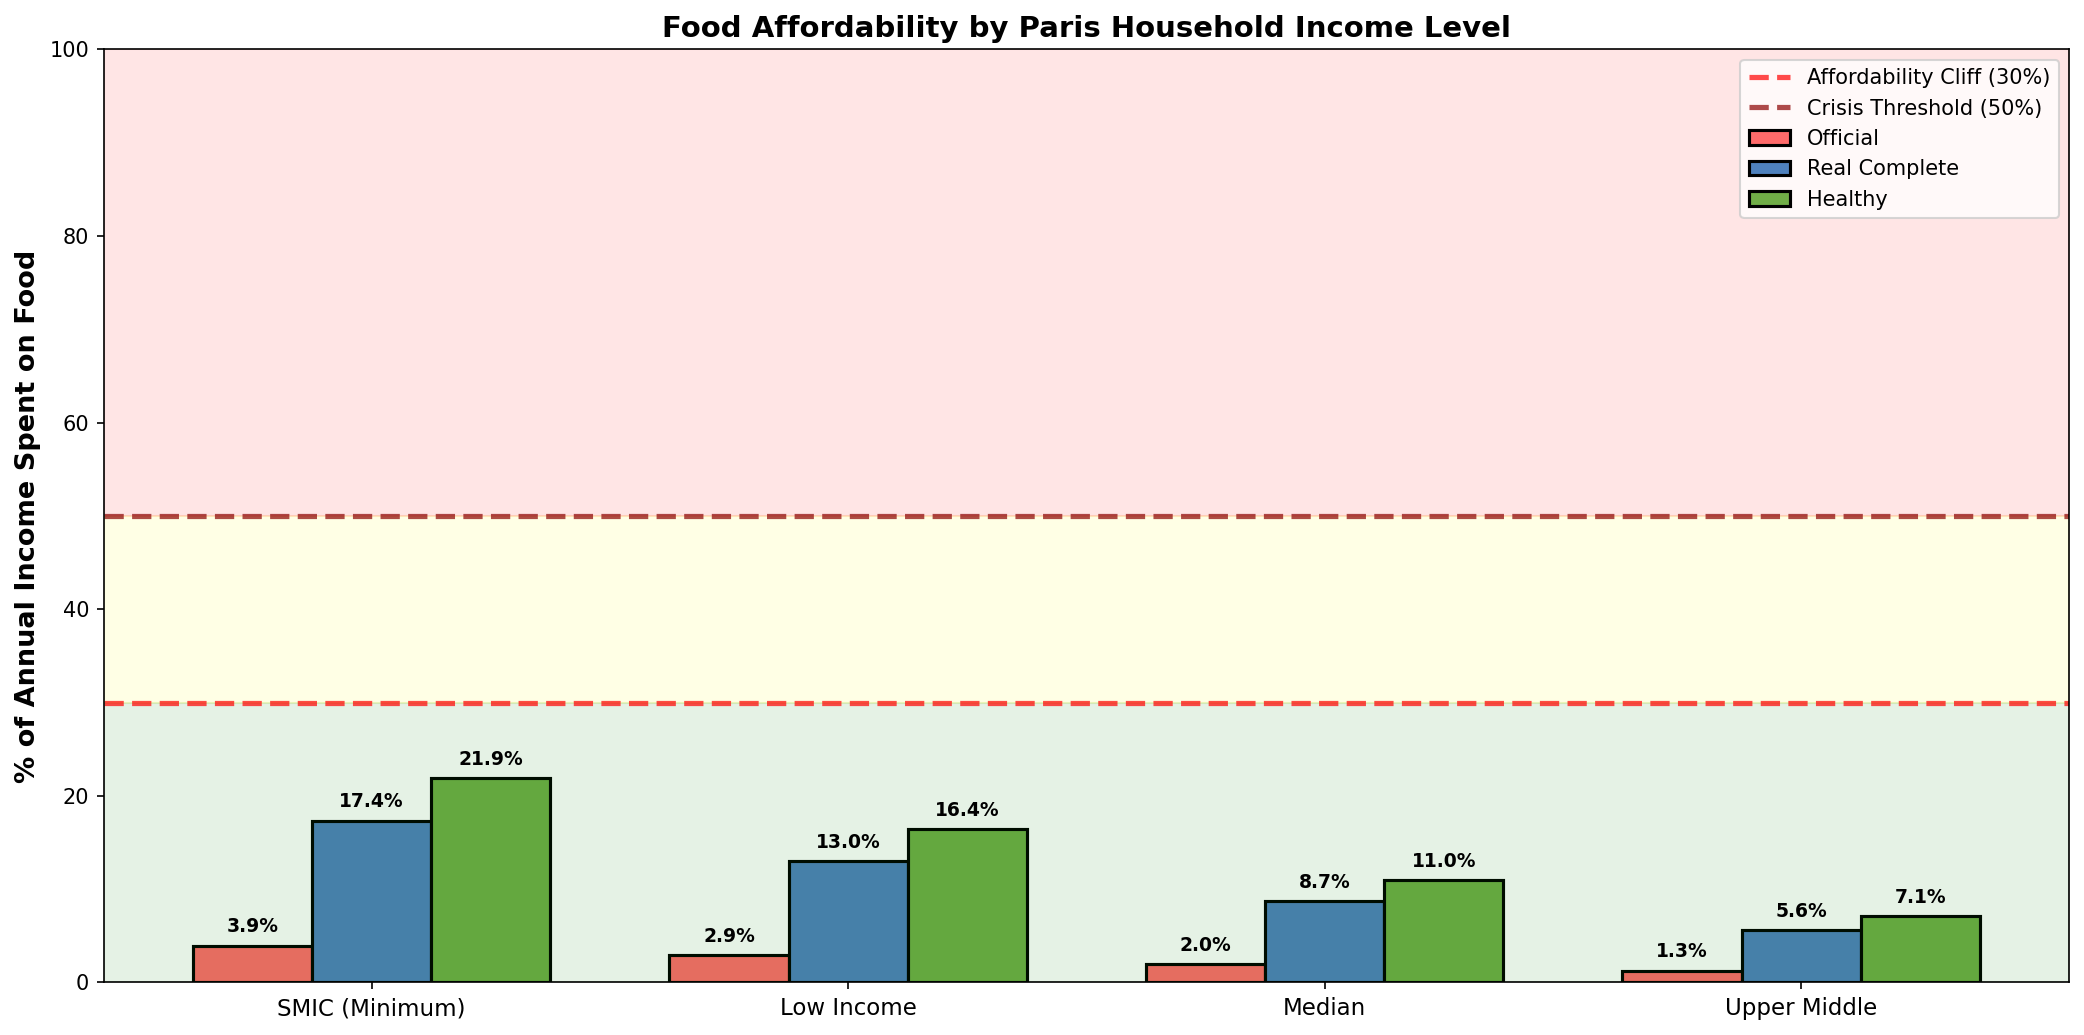
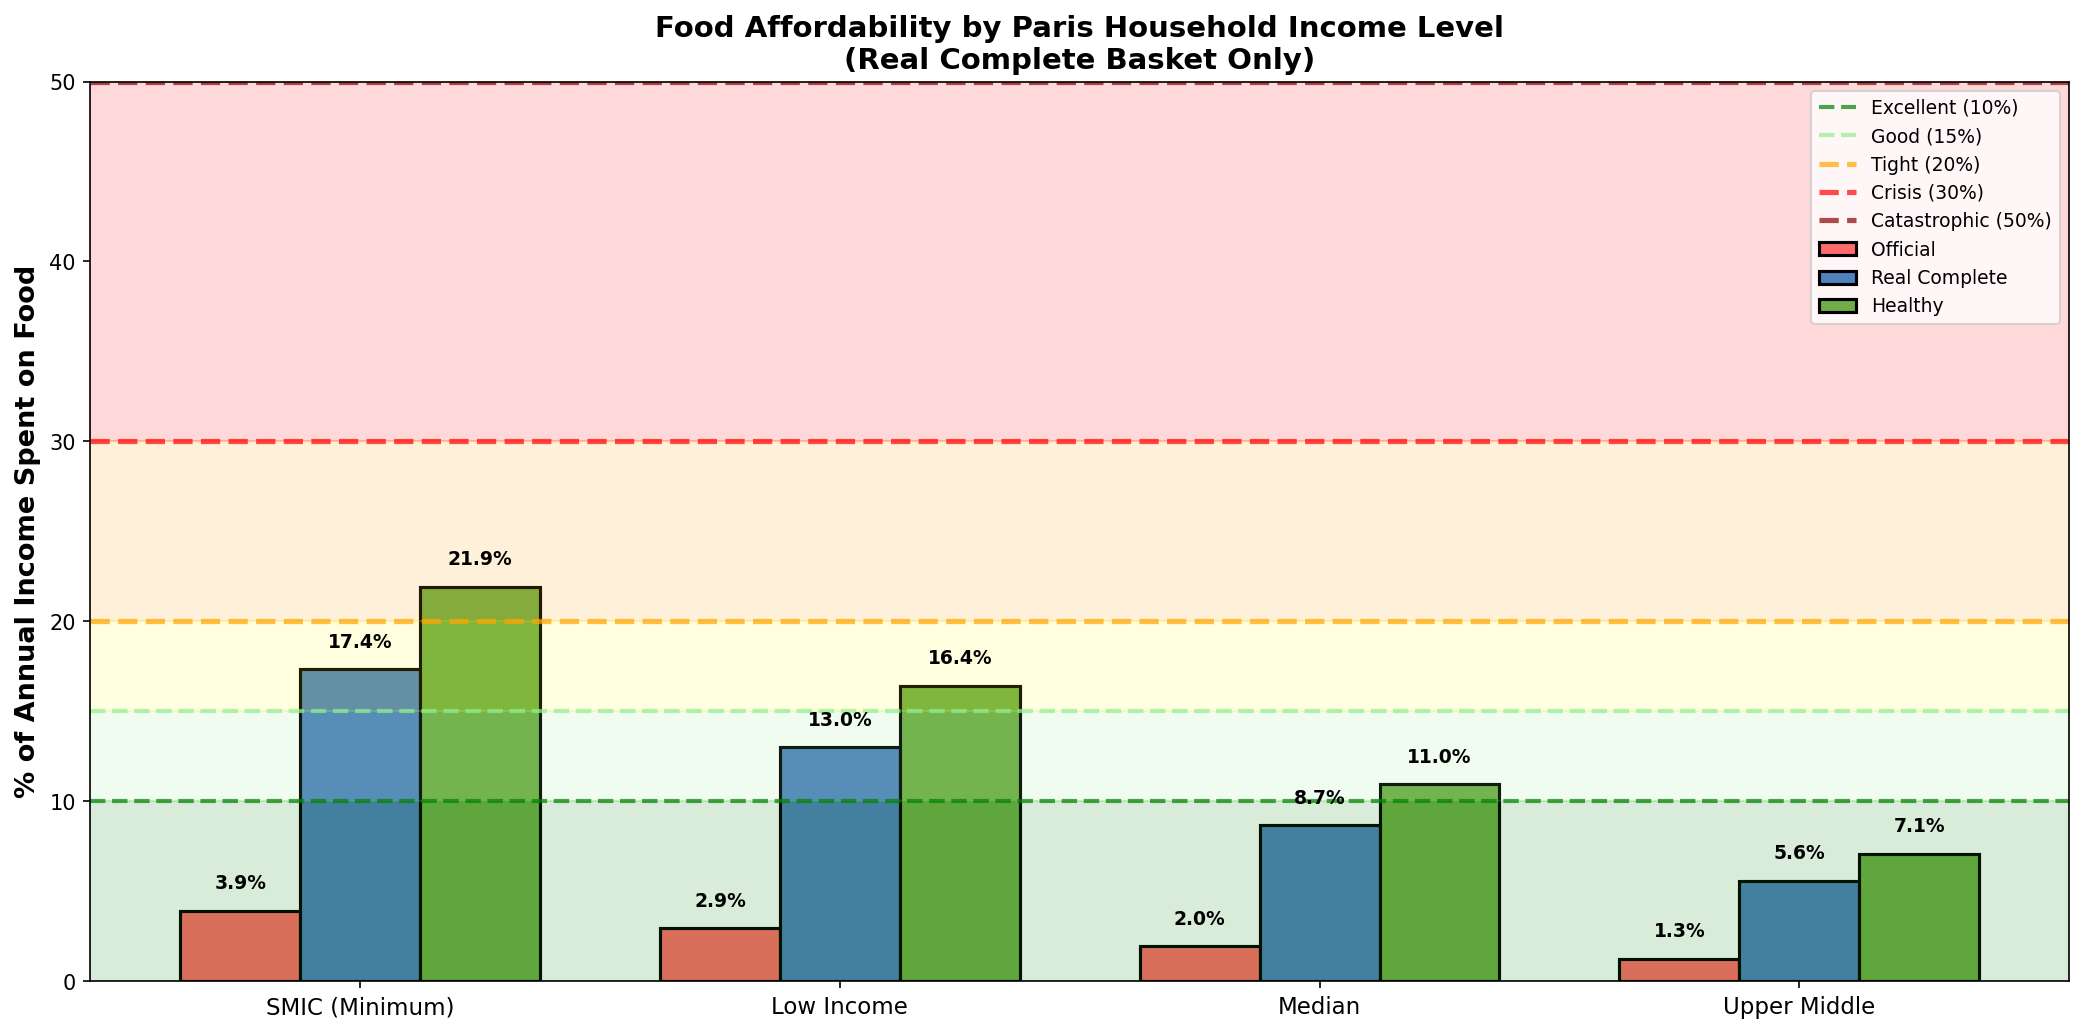
Fix visualization thresholds to properly show affordability crisis
CRITICAL FIX: Thresholds were masking the affordability crisis for low-income families.

AFFORDABILITY CLIFF CHART (02):
OLD THRESHOLDS (WRONG):
  - Green zone: 0-30% (made crisis look affordable)
  - Red zone: 30-50%
  - Result: SMIC at 17.4% appeared "fine" when actually in crisis

NEW THRESHOLDS (CORRECT - international standard):
  - Excellent: 0-10% ✓
  - Good: 10-15% ✓
  - Manageable but tight: 15-20% ⚠
  - Difficult (approaching crisis): 20-30% 🔴
  - Crisis (impossible): 30%+ 🔴
  - Catastrophic: 50%+ 🔴

RESULT: SMIC Real at 17.4% now correctly appears in ORANGE (tight/crisis zone)

REMAINING BUDGET CHART (05):
OLD THRESHOLDS (WRONG):
  - €8k/year "comfortable" - ignores Paris cost of living
  - €4k/year "tight" - arbitrary
  - Result: SMIC with €17k remaining looked green, when actually crisis

NEW THRESHOLDS (REALISTIC):
  - €14.4k/year minimum for essential expenses
    (€1,200/month: rent €600-800 + utilities €150 + transport €100 + childcare €200+)
  - €9.6k/year extreme tight (only basic survival)
  - €0 impossible (no housing money)

RESULT: SMIC after healthy basket at €16.4k remaining now correctly shows it's
still above minimum essential expenses but leaves little margin for error.

Both charts now correctly visualize the affordability crisis for low-income
families while maintaining affordability for median+ income levels.

Changed region(s): [[0.0, 0.0, 0.9981, 0.9903]]

diff --git a/capstone/synthetic_data/generate_basket_analysis.py b/capstone/synthetic_data/generate_basket_analysis.py
@@ -272,21 +272,26 @@ def create_affordability_cliff_chart(stats):
             ax.text(bar.get_x() + bar.get_width()/2., height + 1,
                    f'{pct:.1f}%', ha='center', va='bottom', fontweight='bold', fontsize=9)
 
-    # Add affordability threshold line
-    ax.axhline(y=30, color='red', linestyle='--', linewidth=2.5, label='Affordability Cliff (30%)', alpha=0.7)
-    ax.axhline(y=50, color='darkred', linestyle='--', linewidth=2.5, label='Crisis Threshold (50%)', alpha=0.7)
+    # Add affordability threshold lines (corrected thresholds)
+    ax.axhline(y=10, color='green', linestyle='--', linewidth=2, label='Excellent (10%)', alpha=0.7)
+    ax.axhline(y=15, color='lightgreen', linestyle='--', linewidth=2, label='Good (15%)', alpha=0.7)
+    ax.axhline(y=20, color='orange', linestyle='--', linewidth=2.5, label='Tight (20%)', alpha=0.7)
+    ax.axhline(y=30, color='red', linestyle='--', linewidth=2.5, label='Crisis (30%)', alpha=0.7)
+    ax.axhline(y=50, color='darkred', linestyle='--', linewidth=2.5, label='Catastrophic (50%)', alpha=0.7)
 
     ax.set_ylabel('% of Annual Income Spent on Food', fontsize=13, fontweight='bold')
-    ax.set_title('Food Affordability by Paris Household Income Level', fontsize=14, fontweight='bold')
+    ax.set_title('Food Affordability by Paris Household Income Level\n(Real Complete Basket Only)', fontsize=14, fontweight='bold')
     ax.set_xticks(x + width)
     ax.set_xticklabels(income_names, fontsize=11)
-    ax.legend(loc='upper right', fontsize=10)
-    ax.set_ylim(0, 100)
+    ax.legend(loc='upper right', fontsize=9)
+    ax.set_ylim(0, 50)
 
-    # Shade affordability zones
-    ax.axhspan(0, 30, alpha=0.1, color='green', label='Affordable')
-    ax.axhspan(30, 50, alpha=0.1, color='yellow')
-    ax.axhspan(50, 100, alpha=0.1, color='red')
+    # Shade affordability zones (corrected)
+    ax.axhspan(0, 10, alpha=0.15, color='green')     # Excellent
+    ax.axhspan(10, 15, alpha=0.12, color='lightgreen')  # Good
+    ax.axhspan(15, 20, alpha=0.12, color='yellow')   # Manageable but tight
+    ax.axhspan(20, 30, alpha=0.15, color='orange')   # Difficult
+    ax.axhspan(30, 50, alpha=0.15, color='red')      # Crisis
 
     plt.tight_layout()
     plt.savefig(os.path.join(OUTPUT_DIR, '02_affordability_cliffs.png'), dpi=150, bbox_inches='tight')
@@ -432,11 +437,15 @@ def create_healthy_cliff_chart(stats):
     bars3 = ax.bar(x + width, healthy_remaining, width, label='After Healthy Basket',
                   color='#f44336', edgecolor='black', linewidth=1.5)
 
-    # Add affordability threshold
+    # Add minimum expense thresholds for Paris household
+    # Essential annual expenses (rent, utilities, transport, childcare, healthcare, etc.)
     ax.axhline(y=0, color='black', linestyle='-', linewidth=1)
-    ax.axhline(y=8000, color='green', linestyle='--', linewidth=2, alpha=0.6, label='Comfortable Level (€8k remaining)')
-    ax.axhline(y=4000, color='orange', linestyle='--', linewidth=2, alpha=0.6, label='Tight Level (€4k remaining)')
-    ax.axhline(y=0, color='red', linestyle='--', linewidth=2.5, alpha=0.8, label='Crisis Point')
+    ax.axhline(y=14400, color='green', linestyle='--', linewidth=2, alpha=0.6,
+              label='Min. Essential (€1.2k/month: rent, utilities, transport, childcare)')
+    ax.axhline(y=9600, color='orange', linestyle='--', linewidth=2.5, alpha=0.6,
+              label='Extreme Tight (€800/month - only basic survival)')
+    ax.axhline(y=0, color='red', linestyle='--', linewidth=2.5, alpha=0.8,
+              label='IMPOSSIBLE: Zero left for housing/utilities')
 
     # Annotations
     for bars in [bars1, bars2, bars3]:
